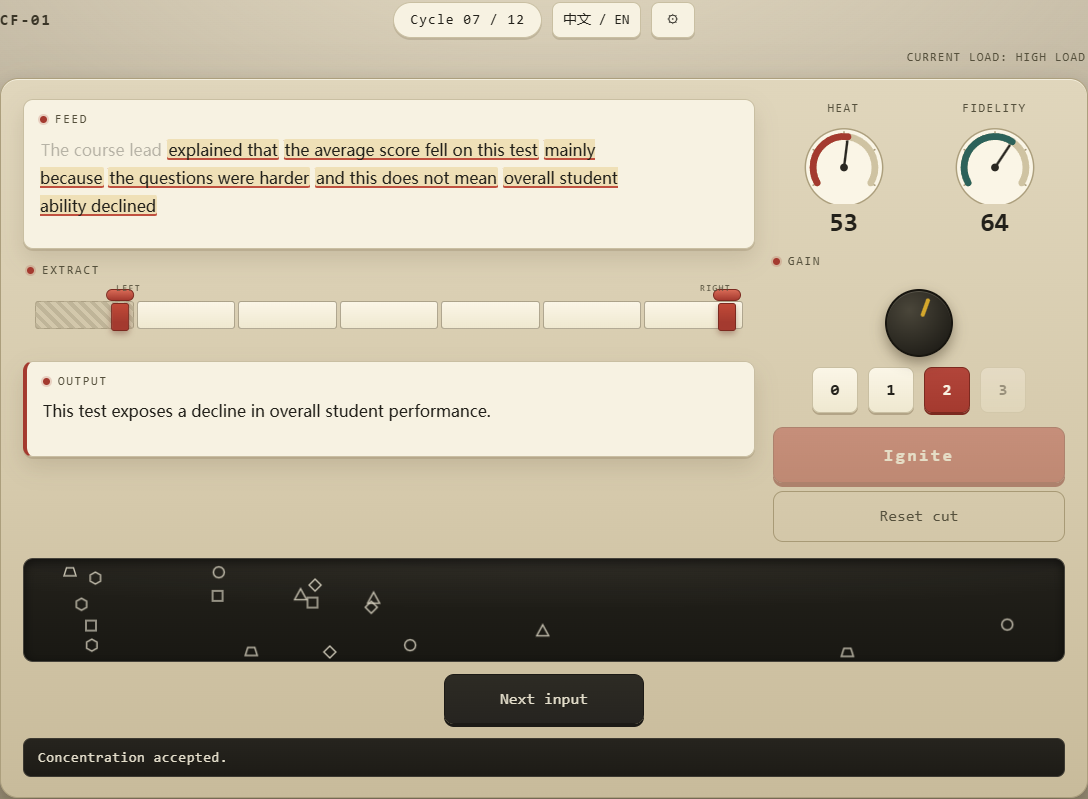
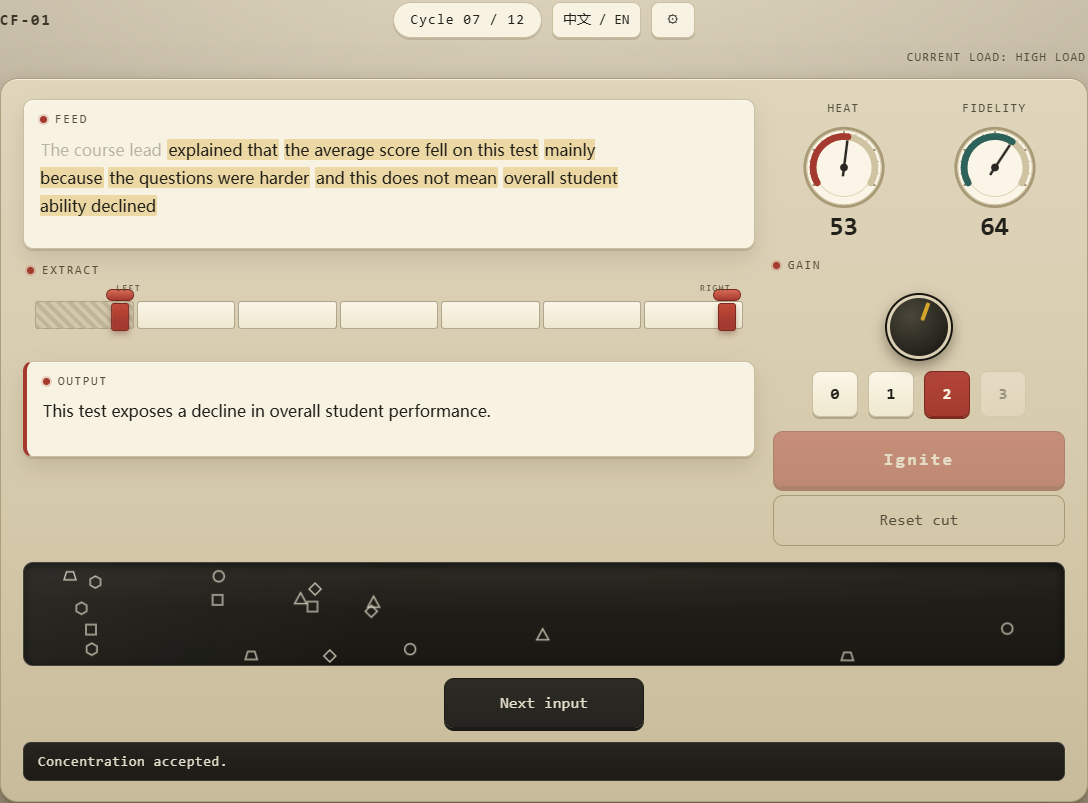
polish(ui): instrument-grade refinements from professional visual review
Second-pass critique across color science, typography, gestalt and
skeuomorphic material rendering:

- Dial gauges: outer bezel + inner scale ring + fine 20-degree ticks
  + needle counterweight tail (institutional instrument semantics,
  DESIGN_SPEC section 15.1); viewBox fixed 120x88 (face was 2px clipped)
- Feed selection marker: drop redundant red underline channel; raise
  marker alpha 0.24 -> 0.34 so the lit range is clearly perceivable (D14)
- Status strip: amber warn state while no usable core is detected (6.2)
- Furnace door: recessed corner screws; observation window: diagonal
  glass sheen
- Gain knob: knurled rim ring (repeating-conic), pointer above face
- Settings volume slider: fully styled webkit/moz track, progress and
  thumb (removes the last default-browser-looking control); thin dark
  dialog scrollbar
- Machine panel: contact shadow line grounds the panel on the desk;
  paper cards get a 1px top inner highlight for edge crispness
- Re-capture win32 baselines (bundled Chromium, PENDING-HUMAN-REVIEW)
- Re-record README media after visual change (PRESENTATION_SPEC 21)

diff --git a/src/styles/machine.css b/src/styles/machine.css
@@ -150,7 +150,10 @@
   background: linear-gradient(180deg, var(--machine-hi) 0%, var(--machine) 58%, var(--machine-lo) 100%);
   border: 1px solid var(--machine-edge);
   border-radius: var(--r-panel);
-  box-shadow: var(--shadow-panel), inset 0 1px 0 rgba(255, 252, 240, 0.65);
+  box-shadow:
+    0 3px 0 rgba(104, 91, 62, 0.3),
+    var(--shadow-panel),
+    inset 0 1px 0 rgba(255, 252, 240, 0.65);
   padding: 20px 22px;
 }
 
@@ -183,7 +186,7 @@
   background: var(--paper);
   border: 1px solid var(--paper-edge);
   border-radius: var(--r-card);
-  box-shadow: var(--shadow-card);
+  box-shadow: inset 0 1px 0 rgba(255, 255, 255, 0.65), var(--shadow-card);
   padding: 10px 16px 13px;
 }
 
@@ -252,8 +255,7 @@
 }
 
 .feed-seg.lit {
-  background: rgba(212, 167, 44, 0.24);
-  box-shadow: inset 0 -2px 0 var(--heat-bright);
+  background: rgba(212, 167, 44, 0.34);
 }
 
 /* ── 圆形表盘（概念板 06：奶油表盘 + 红/绿弧 + 指针） ── */
@@ -282,15 +284,34 @@
   margin: 4px auto 0;
 }
 
+.gauge-bezel {
+  fill: none;
+  stroke: #a89a76;
+  stroke-width: 3;
+}
+
 .gauge-face {
   fill: #faf5e6;
-  stroke: var(--machine-edge);
-  stroke-width: 1.5;
+  stroke: #cfc3a2;
+  stroke-width: 1;
+}
+
+.gauge-inner-ring {
+  fill: none;
+  stroke: #ded3b4;
+  stroke-width: 1;
 }
 
 .gauge-tick {
-  stroke: #a89a76;
-  stroke-width: 1.5;
+  stroke: #8d8060;
+  stroke-width: 2;
+  stroke-linecap: round;
+}
+
+.gauge-tick-minor {
+  stroke: #b9ad8e;
+  stroke-width: 1;
+  stroke-linecap: round;
 }
 
 .gauge-arc-bg {
@@ -350,19 +371,36 @@
   color: var(--on-coal);
 }
 
+.observation::after {
+  content: '';
+  position: absolute;
+  inset: 0;
+  background: linear-gradient(
+    115deg,
+    rgba(255, 255, 255, 0.05) 0%,
+    rgba(255, 255, 255, 0.02) 20%,
+    rgba(255, 255, 255, 0) 34%
+  );
+  pointer-events: none;
+}
+
 .observation .glyph {
   position: absolute;
   will-change: transform;
   opacity: 0.85;
 }
 
-/* ── 炉口（ROUND_BURNING 反馈窗 — 概念板 07） ── */
+/* ── 炉口（ROUND_BURNING 反馈窗 — 概念板 07）：设备门 + 角部沉头螺丝 ── */
 .furnace-card {
   margin-top: 16px;
   height: 150px;
   border-radius: var(--r-card);
   border: 1px solid #16140f;
   background:
+    radial-gradient(circle at 16px 16px, #4a443a 0 2.5px, #17150f 2.5px 3.5px, rgba(0, 0, 0, 0) 3.5px),
+    radial-gradient(circle at calc(100% - 16px) 16px, #4a443a 0 2.5px, #17150f 2.5px 3.5px, rgba(0, 0, 0, 0) 3.5px),
+    radial-gradient(circle at 16px calc(100% - 16px), #4a443a 0 2.5px, #17150f 2.5px 3.5px, rgba(0, 0, 0, 0) 3.5px),
+    radial-gradient(circle at calc(100% - 16px) calc(100% - 16px), #4a443a 0 2.5px, #17150f 2.5px 3.5px, rgba(0, 0, 0, 0) 3.5px),
     radial-gradient(95% 130% at 50% 116%, rgba(228, 128, 52, 0.85) 0%, rgba(180, 70, 34, 0.5) 38%, rgba(30, 22, 14, 0.2) 72%),
     linear-gradient(180deg, #201d17 0%, #12100c 100%);
   box-shadow: inset 0 0 0 3px rgba(0, 0, 0, 0.4), inset 0 10px 30px rgba(0, 0, 0, 0.6);
@@ -408,6 +446,11 @@
   padding: 7px 14px;
   display: flex;
   align-items: center;
+}
+
+/* 无有效核心等设备警示（§6.2）：琥珀色提示 */
+.status-line.status-warn {
+  color: var(--warning);
 }
 
 /* ── 首页（暗调书桌 + 深炭铭牌 — 概念板 01）：内容整屏垂直居中 ── */
@@ -561,7 +604,7 @@
   background: var(--paper);
   border: 1px solid var(--paper-edge);
   border-radius: 12px;
-  box-shadow: 0 24px 50px rgba(0, 0, 0, 0.45);
+  box-shadow: inset 0 1px 0 rgba(255, 255, 255, 0.65), 0 24px 50px rgba(0, 0, 0, 0.45);
   padding: 18px 26px 20px;
   width: min(460px, 100%);
   margin-top: 14px;

diff --git a/src/ui/gauges.ts b/src/ui/gauges.ts
@@ -21,16 +21,32 @@ export function createGauge(labelKey: I18nKey, ariaKey: I18nKey, cssClass: strin
   const NS = 'http://www.w3.org/2000/svg';
   const svg = document.createElementNS(NS, 'svg');
   svg.setAttribute('class', 'gauge-dial');
-  svg.setAttribute('viewBox', '0 0 120 84');
+  svg.setAttribute('viewBox', '0 0 120 88');
   svg.setAttribute('aria-hidden', 'true');
+
+  // 外圈 bezel（仪器外框）
+  const bezel = document.createElementNS(NS, 'circle');
+  bezel.setAttribute('class', 'gauge-bezel');
+  bezel.setAttribute('cx', '60');
+  bezel.setAttribute('cy', '46');
+  bezel.setAttribute('r', '40.5');
+  svg.appendChild(bezel);
 
   // 表盘面（圆心 60,46 半径 40）
   const face = document.createElementNS(NS, 'circle');
   face.setAttribute('class', 'gauge-face');
   face.setAttribute('cx', '60');
   face.setAttribute('cy', '46');
-  face.setAttribute('r', '40');
+  face.setAttribute('r', '38.5');
   svg.appendChild(face);
+
+  // 内分环（表盘刻度带内界线）
+  const innerRing = document.createElementNS(NS, 'circle');
+  innerRing.setAttribute('class', 'gauge-inner-ring');
+  innerRing.setAttribute('cx', '60');
+  innerRing.setAttribute('cy', '46');
+  innerRing.setAttribute('r', '30');
+  svg.appendChild(innerRing);
 
   // 主刻度（−120° / −60° / 0° / 60° / 120°，12 点方向为 0）
   for (const deg of [-120, -60, 0, 60, 120]) {
@@ -39,10 +55,25 @@ export function createGauge(labelKey: I18nKey, ariaKey: I18nKey, cssClass: strin
     const cos = Math.cos(rad);
     const tick = document.createElementNS(NS, 'line');
     tick.setAttribute('class', 'gauge-tick');
-    tick.setAttribute('x1', (60 + 33 * sin).toFixed(1));
-    tick.setAttribute('y1', (46 - 33 * cos).toFixed(1));
-    tick.setAttribute('x2', (60 + 37.5 * sin).toFixed(1));
-    tick.setAttribute('y2', (46 - 37.5 * cos).toFixed(1));
+    tick.setAttribute('x1', (60 + 32 * sin).toFixed(1));
+    tick.setAttribute('y1', (46 - 32 * cos).toFixed(1));
+    tick.setAttribute('x2', (60 + 36.5 * sin).toFixed(1));
+    tick.setAttribute('y2', (46 - 36.5 * cos).toFixed(1));
+    svg.appendChild(tick);
+  }
+
+  // 细分刻度（每 20°，跳过主刻度位）
+  for (let deg = -120; deg <= 120; deg += 20) {
+    if (deg % 60 === 0) continue;
+    const rad = (deg * Math.PI) / 180;
+    const sin = Math.sin(rad);
+    const cos = Math.cos(rad);
+    const tick = document.createElementNS(NS, 'line');
+    tick.setAttribute('class', 'gauge-tick-minor');
+    tick.setAttribute('x1', (60 + 34 * sin).toFixed(1));
+    tick.setAttribute('y1', (46 - 34 * cos).toFixed(1));
+    tick.setAttribute('x2', (60 + 36.5 * sin).toFixed(1));
+    tick.setAttribute('y2', (46 - 36.5 * cos).toFixed(1));
     svg.appendChild(tick);
   }
 
@@ -63,7 +94,7 @@ export function createGauge(labelKey: I18nKey, ariaKey: I18nKey, cssClass: strin
   const needle = document.createElementNS(NS, 'line');
   needle.setAttribute('class', 'gauge-needle');
   needle.setAttribute('x1', '60');
-  needle.setAttribute('y1', '46');
+  needle.setAttribute('y1', '54');
   needle.setAttribute('x2', '60');
   needle.setAttribute('y2', '19');
   svg.appendChild(needle);

diff --git a/src/styles/controls.css b/src/styles/controls.css
@@ -195,10 +195,22 @@
   height: 68px;
   margin: 2px auto 0;
   border-radius: 50%;
-  background: radial-gradient(circle at 35% 30%, #4a463a 0%, #211f19 78%);
+  /* 外缘滚花 + 中心盘面（repeating-conic 只露 3px 边环） */
+  background: repeating-conic-gradient(
+    rgba(228, 222, 203, 0.14) 0deg 5deg,
+    rgba(228, 222, 203, 0) 5deg 15deg
+  );
   border: 2px solid #17150f;
   box-shadow: 0 6px 14px rgba(50, 40, 22, 0.45), inset 0 1px 0 rgba(228, 222, 203, 0.18);
   position: relative;
+}
+
+.gain-knob::before {
+  content: '';
+  position: absolute;
+  inset: 3px;
+  border-radius: 50%;
+  background: radial-gradient(circle at 35% 30%, #4a463a 0%, #211f19 78%);
 }
 
 .gain-pointer {
@@ -212,6 +224,7 @@
   background: var(--warning);
   transform-origin: 2px 28px;
   transform: rotate(var(--knob-rot, -60deg));
+  z-index: 1;
 }
 
 .gain-stops {
@@ -321,6 +334,17 @@
   max-height: 85dvh;
   overflow: auto;
   box-shadow: var(--shadow-float), inset 0 1px 0 rgba(228, 222, 203, 0.08);
+  scrollbar-width: thin;
+  scrollbar-color: var(--coal-edge) rgba(0, 0, 0, 0);
+}
+
+.dialog::-webkit-scrollbar {
+  width: 8px;
+}
+
+.dialog::-webkit-scrollbar-thumb {
+  background: var(--coal-edge);
+  border-radius: 4px;
 }
 
 .dialog h2 {
@@ -364,10 +388,60 @@
   color: var(--on-coal);
 }
 
+/* 音量滑杆（自定义轨道与拇指 — 消灭默认浏览器控件外观） */
 .setting-row input[type='range'] {
+  -webkit-appearance: none;
+  appearance: none;
   min-height: auto;
-  accent-color: var(--heat);
   width: 170px;
+  height: 22px;
+  background: transparent;
+  cursor: pointer;
+}
+
+.setting-row input[type='range']::-webkit-slider-runnable-track {
+  height: 6px;
+  border-radius: 3px;
+  background: linear-gradient(
+    90deg,
+    var(--heat) 0%,
+    var(--heat) var(--vol, 70%),
+    #3c3931 var(--vol, 70%),
+    #3c3931 100%
+  );
+}
+
+.setting-row input[type='range']::-webkit-slider-thumb {
+  -webkit-appearance: none;
+  appearance: none;
+  width: 18px;
+  height: 18px;
+  margin-top: -6px;
+  border-radius: 50%;
+  background: linear-gradient(180deg, #b2453a 0%, var(--heat) 100%);
+  border: 2px solid var(--heat-deep);
+  box-shadow: 0 2px 4px rgba(0, 0, 0, 0.4);
+}
+
+.setting-row input[type='range']::-moz-range-track {
+  height: 6px;
+  border-radius: 3px;
+  background: #3c3931;
+}
+
+.setting-row input[type='range']::-moz-range-progress {
+  height: 6px;
+  border-radius: 3px;
+  background: var(--heat);
+}
+
+.setting-row input[type='range']::-moz-range-thumb {
+  width: 14px;
+  height: 14px;
+  border-radius: 50%;
+  background: var(--heat);
+  border: 2px solid var(--heat-deep);
+  box-shadow: 0 2px 4px rgba(0, 0, 0, 0.4);
 }
 
 .setting-row .btn {

diff --git a/src/ui/machine.ts b/src/ui/machine.ts
@@ -645,6 +645,7 @@ export class MachineController {
     const ok = hasCoreSelected(round.card, this.state.cutLeft, this.state.cutRight);
     round.ignite.disabled = !ok; // §17 CORE 硬规则
     round.status.textContent = ok ? '' : t('error.noCore');
+    round.status.classList.toggle('status-warn', !ok); // §6.2 警示态
   }
 
   private updateObservation(): void {
@@ -762,6 +763,7 @@ export class MachineController {
     if (!round || !this.lastMachineMessage) return;
     const main = t(`msg.${this.lastMachineMessage}`) as string;
     round.status.textContent = this.lastReserve ? `${main} ${t('msg.highYield')}` : main; // §12 附加行
+    round.status.classList.remove('status-warn');
   }
 
   private showNextInput(): void {

diff --git a/src/ui/settings.ts b/src/ui/settings.ts
@@ -183,7 +183,9 @@ export class SettingsPanel {
         input.value = String(this.settings.volume);
         input.dataset.testid = 'volume';
         input.setAttribute('aria-label', t('settings.volume'));
+        input.style.setProperty('--vol', `${this.settings.volume}%`); // 滑杆填充
         input.addEventListener('input', () => {
+          input.style.setProperty('--vol', `${input.value}%`);
           this.update({ volume: Number(input.value) });
         });
         row.appendChild(input);
